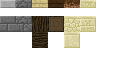
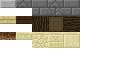
Fixed collision left/right and painting tiles. Reestructured TileMap input

diff --git a/Proyecto/Player.cpp b/Proyecto/Player.cpp
@@ -64,7 +64,7 @@ void Player::update(int deltaTime)
 
 		if (bFalling)
 		{
-			map->pintarTiles(posPlayer, HITBOX_SIZE);
+			map->paintTiles(posPlayer, HITBOX_SIZE);
 			
 			if (sprite->animation() != JUMP_LEFT)
 				sprite->changeAnimation(JUMP_LEFT);
@@ -76,7 +76,7 @@ void Player::update(int deltaTime)
 		}
 		else
 		{
-			map->pintarTiles(posPlayer, HITBOX_SIZE);
+			map->paintTiles(posPlayer, HITBOX_SIZE);
 
 			if (c && sprite->animation() != STAND_LEFT)
 				sprite->changeAnimation(STAND_LEFT);
@@ -92,7 +92,7 @@ void Player::update(int deltaTime)
 
 		if (bFalling)
 		{
-			map->pintarTiles(posPlayer, HITBOX_SIZE);
+			map->paintTiles(posPlayer, HITBOX_SIZE);
 
 			if (sprite->animation() != JUMP_RIGHT)
 				sprite->changeAnimation(JUMP_RIGHT);
@@ -104,7 +104,7 @@ void Player::update(int deltaTime)
 		}
 		else
 		{
-			map->pintarTiles(posPlayer, HITBOX_SIZE);
+			map->paintTiles(posPlayer, HITBOX_SIZE);
 
 			if (c && sprite->animation() != STAND_RIGHT)
 				sprite->changeAnimation(STAND_RIGHT);
@@ -128,7 +128,7 @@ void Player::update(int deltaTime)
 		{
 			bJumping = false;
 		}
-		else if (jumpAngle == 4)
+		else if (jumpAngle == 12)
 		{
 			if (sprite->animation() % 2 == 0 && sprite->animation() != JUMP_LEFT)
 				sprite->changeAnimation(JUMP_LEFT);
@@ -175,7 +175,7 @@ void Player::update(int deltaTime)
 		bFalling = !map->collisionMoveDown(posPlayer, HITBOX_SIZE, &posPlayer.y);
 		if(!bFalling)
 		{
-			map->pintarTiles(posPlayer, HITBOX_SIZE);
+			map->paintTiles(posPlayer, HITBOX_SIZE);
 
 			if(Game::instance().getSpecialKey(GLUT_KEY_UP))
 			{

diff --git a/Proyecto/TileMap.h b/Proyecto/TileMap.h
@@ -36,7 +36,8 @@ public:
 	bool collisionMoveLeft(const glm::ivec2 &pos, const glm::ivec2 &size) const;
 	bool collisionMoveRight(const glm::ivec2 &pos, const glm::ivec2 &size) const;
 	bool collisionMoveDown(const glm::ivec2& pos, const glm::ivec2& size, int* posY);
-	void pintarTiles(const glm::ivec2 &pos, const glm::ivec2 &size);
+	bool collisionMoveUp(const glm::ivec2& pos, const glm::ivec2& size, int* posY);
+	void paintTiles(const glm::ivec2 &pos, const glm::ivec2 &size);
 	
 private:
 	bool loadLevel(const string &levelFile);
@@ -52,6 +53,7 @@ private:
 	Texture tilesheet;
 	glm::vec2 tileTexSize;
 	int *map;
+	int biome, biomeShift;
 
 };
 
